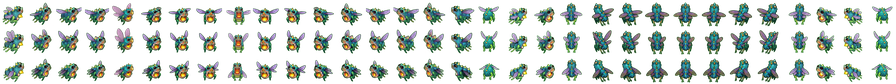
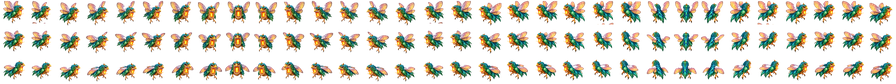
Teratorn: full Codex repaint, all 3 wing-flap frames of 17 headings
Claude-Session: https://claude.ai/code/session_01SMsyPA2gdtNVrQYtH9AZv3

diff --git a/web/tools/gen-teratorn-sprite.py b/web/tools/gen-teratorn-sprite.py
@@ -1,48 +1,42 @@
 """
-Build the repainted Teratorn (C14) sprite sheet from Gemini-restyled frames.
-Art trial, Teratorn only. Usage (from the repo root):
+Build the repainted Teratorn (C14) sprite sheet from Codex-painted frames. Art trial, Teratorn only.
+Usage (from the repo root):
 
-    pip install pillow numpy
+    pip install pillow numpy scipy
     python web/tools/gen-teratorn-sprite.py <source folder>
 
-The source folder holds Gemini's restyles of the original frames, each a grid
-on a flat #00FF00 ground named after the sheet columns it covers, one row per
-column and the three wing-flap frames left to right:
+The source folder holds the grids that Codex painted on a flat #FF00FF ground (web/tools/teratorn-kit/make_batch.py
+builds the inputs and the prompt of each call), named after the sheet columns they cover, top to bottom:
+frames-8-9-10.png ... Each grid has one row per heading and 3 columns, the three wing-flap frames (wings raised, half way,
+swept low), the body identical in the three and only the wings moving.
 
-    frames-8-0-4-24.png     4 rows: columns 8, 0, 4 and 24
-    frames-9-10-11-12.png   ...
+The original sheet is a mirror image of itself: column c flipped left to right is column 16 - c, one pixel over. So only
+columns 8 to 24 (facing down round to facing up through left) are painted; the rest are flipped.
 
-Each grid was made by handing Gemini the original frames blown up 8x, every
-frame in a 256 px cell with the 224 px blow-up 16 px in, and asking it to
-redraw them in place in the revamp's cel style (prompt in
-docs/art/monster-sprites.md). The original pins the pose, so the body stays
-put from frame to frame and only the wings move.
-
-The original sheet is a mirror image of itself: column c flipped left to
-right is column 16 - c, one pixel over. So only columns 8 to 24 (facing down
-round to facing up through left) need painting; the rest are flipped, unless
-the folder has a painting of them too.
-
-Each painted row is fitted to the original row with one scale and offset for
-all three frames (so fitting adds no wobble), keyed, and placed in the
-original layout (32 headings x 3 flap frames, 28x28 cells, anchor 15,14; see
-docs/art/monster-sprites.md):
+Each painted cell is keyed (every magenta pixel becomes clear) and scaled so its silhouette covers about as many pixels as
+the old sprite's does (AREA), the factor smoothed over the 5 nearest headings and blended towards the median so the small
+old front view does not make the new one small. One scale and offset serves a heading's three frames (so the body does not
+wobble from frame to frame): the union of the three frames is centred on the old sprite and its feet stand on the old
+sprite's bottom, and is kept inside the cell. Output, in the original layout (32 headings x 3 flap frames, 28x28 cells):
 
     server/public/assets/monsters/14-repaint.png      896x84
     server/public/assets/monsters/14-repaint@4x.png   3584x336, the same at 4x
 
-The game draws the @4x sheet (REPAINTED_SHEETS in
-web/src/game/attack/monsterSprites.ts).
+The game draws the @4x sheet (REPAINTED_SHEETS in web/src/game/attack/monsterSprites.ts).
 """
 import sys
 from pathlib import Path
 import numpy as np
-from PIL import Image, ImageOps
+from PIL import Image, ImageFilter, ImageOps
+from scipy import ndimage as ndi
 
 CELL = 28
 COLS, ROWS = 32, 3
-UP = 4                       # the repaint's scale
-REF_CELL, REF_INSET, REF_SCALE = 256, 16, 8
+UP = 4                     # the repaint's scale
+GAMMA = 0.9                # lifts the painting a little so it reads at the real size
+MARGIN = 1.0               # keep this many 1x pixels inside the cell
+AREA = 1.2                 # new silhouette area / old silhouette area (1 = the same size as the old sprite)
+BLEND = 0.5                # how far each heading's size is pulled to the median (the old front view is small)
 
 if len(sys.argv) != 2:
     sys.exit(__doc__)
@@ -52,92 +46,121 @@ ASSETS = REPO / "server" / "public" / "assets" / "monsters"
 ORIGINAL = Image.open(ASSETS / "14.v1.png").convert("RGBA")
 
 
-def key(im):
-    """
-    Chroma-key the green ground. The Teratorn's legs are green too, so only
-    a strong green excess (G - max(R, B)) counts as ground: opaque at 105 or
-    less, clear at 235. Part-clear pixels are unmixed from the green.
-    """
-    rgb = np.asarray(im.convert("RGB"), dtype=float)
-    excess = rgb[..., 1] - np.maximum(rgb[..., 0], rgb[..., 2])
-    a = np.clip((235 - excess) / 130, 0, 1)
-    ground = np.array([0, 255, 0], dtype=float)
-    safe = np.maximum(a, 1e-3)[..., None]
-    fg = np.clip((rgb - (1 - a[..., None]) * ground) / safe, 0, 255)
-    fg = np.where((a < 1)[..., None], fg, rgb)
-    return Image.fromarray(np.dstack([fg, a * 255]).astype(np.uint8), "RGBA")
-
-
 def original_cell(col, frame):
-    return ORIGINAL.crop((col * CELL, frame * CELL, (col + 1) * CELL, (frame + 1) * CELL))
+    return np.asarray(ORIGINAL.crop((col * CELL, frame * CELL, (col + 1) * CELL, (frame + 1) * CELL))).astype(int)
 
 
-def place(im, scale, dx, dy, size):
-    """`im` scaled by `scale` about its centre and moved by (dx, dy), on a `size` canvas."""
-    w = max(1, round(im.width * scale))
-    scaled = im.resize((w, w), Image.LANCZOS)
-    pad = w + size
-    out = Image.new("RGBA", (size + 2 * pad, size + 2 * pad))
-    out.alpha_composite(scaled, (pad + round((size - w) / 2 + dx), pad + round((size - w) / 2 + dy)))
-    return out.crop((pad, pad, pad + size, pad + size))
+def bbox(mask):
+    ys, xs = np.where(mask)
+    return xs.min(), ys.min(), xs.max() + 1, ys.max() + 1
 
 
-def fit_row(painted, col):
-    """
-    One scale and offset for a row's three frames that best lays Gemini's
-    silhouettes over the original's, compared at 2x. The original's wings
-    are a faint blur, so only its solid pixels and Gemini's are compared.
-    """
-    n = CELL * 2
-    targets = [np.asarray(original_cell(col, f).resize((n, n), Image.LANCZOS))[..., 3] > 160 for f in range(ROWS)]
-    small = [p.resize((n, n), Image.LANCZOS) for p in painted]
-    best = None
-    for scale in np.arange(0.86, 1.10, 0.02):
-        masks = [np.asarray(place(s, scale, 0, 0, n))[..., 3] > 160 for s in small]
-        for dy in range(-6, 7):
-            for dx in range(-6, 7):
-                err = 0
-                for m, t in zip(masks, targets):
-                    err += np.count_nonzero(np.roll(np.roll(m, dy, 0), dx, 1) ^ t)
-                if best is None or err < best[0]:
-                    best = (err, scale, dx, dy)
-    _, scale, dx, dy = best
-    return scale, dx / 2, dy / 2   # offsets in 1x pixels
+def key(path, rows):
+    """The grid's cells as RGBA cutouts: cells[row][frame]."""
+    rgb = np.asarray(Image.open(path).convert("RGB"), dtype=float)
+    h, w = rgb.shape[:2]
+    r, g, b = rgb[..., 0], rgb[..., 1], rgb[..., 2]
+    mx = np.maximum(r, b)
+    ground = (g < np.minimum(r, b) * 0.62) & (np.abs(r - b) < 0.4 * mx) & (mx > 60)
+    fg = ndi.binary_opening(~ground, iterations=1)
+    cw, ch = w // 3, h // rows
+    keep = np.zeros_like(fg)
+    lab, _ = ndi.label(fg)
+    for ry in range(rows):
+        for cx in range(3):
+            y0, x0 = ry * ch, cx * cw
+            sub = lab[y0:y0 + ch, x0:x0 + cw]
+            ids, cnt = np.unique(sub[sub > 0], return_counts=True)
+            for i, c in zip(ids, cnt):
+                if c > cnt.max() * 0.02:
+                    keep[y0:y0 + ch, x0:x0 + cw] |= sub == i
+    keep &= ~((r > 190) & (b > 150) & (g < 90) & (np.abs(r - b) < 70))   # stray ground flecks
+    keep = ndi.binary_erosion(keep, iterations=1)
+    alpha = np.asarray(Image.fromarray((keep * 255).astype("uint8")).filter(ImageFilter.GaussianBlur(1.0)))
+    cut = Image.fromarray(np.dstack([rgb, alpha]).astype("uint8"), "RGBA")
+    return [[cut.crop((cx * cw, ry * ch, (cx + 1) * cw, (ry + 1) * ch)) for cx in range(3)] for ry in range(rows)]
+
+
+def resize_premultiplied(im, size):
+    """LANCZOS resize with the colour weighted by alpha, so the magenta ground leaves no fringe."""
+    a = np.asarray(im).astype("float32")
+    a[..., :3] *= a[..., 3:] / 255
+    chans = [np.asarray(Image.fromarray(a[..., i], "F").resize(size, Image.LANCZOS)) for i in range(4)]
+    o = np.dstack(chans)
+    al = np.clip(o[..., 3:], 0, 255)
+    rgb = np.where(al > 0, o[..., :3] / np.maximum(al, 1e-3) * 255, 0)
+    return Image.fromarray(np.dstack([np.clip(rgb, 0, 255), al]).astype("uint8"), "RGBA")
+
+
+def area(im):
+    return float((np.asarray(im)[..., 3] > 200).sum())
 
 
 painted = {}
-for path in sorted(SOURCE.glob("frames-*.png")):
+for path in sorted(SOURCE.glob("frames-*.png"), key=lambda p: [int(c) for c in p.stem.split("-")[1:]]):
     cols = [int(c) for c in path.stem.split("-")[1:]]
-    grid = key(Image.open(path))
-    s = grid.width / (3 * REF_CELL)
-    for r, col in enumerate(cols):
-        cells = []
-        for f in range(ROWS):
-            x0 = (f * REF_CELL + REF_INSET) * s
-            y0 = (r * REF_CELL + REF_INSET) * s
-            span = CELL * REF_SCALE * s
-            cells.append(grid.crop((round(x0), round(y0), round(x0 + span), round(y0 + span))).resize((CELL * UP, CELL * UP), Image.LANCZOS))
-        scale, dx, dy = fit_row(cells, col)
-        print(f"column {col:2}: scale {scale:.2f}, offset {dx:+.1f},{dy:+.1f} px", file=sys.stderr)
-        painted[col] = [place(c, scale, dx * UP, dy * UP, CELL * UP) for c in cells]
+    for col, cells in zip(cols, key(path, len(cols))):
+        painted[col] = cells          # a heading in two grids: the later grid wins
+if sorted(painted) != list(range(8, 25)):
+    sys.exit(f"painted columns {sorted(painted)}, need 8 to 24")
 
-missing = []
+# old silhouette (any visible pixel, faint wings included) of the middle frame, per heading
+old = {c: float((original_cell(c, 1)[..., 3] > 40).sum()) for c in range(COLS)}
+med = float(np.median([old[c] for c in painted]))
+target = {c: AREA * ((1 - BLEND) * old[c] + BLEND * med) for c in painted}
+size = {c: np.sqrt(target[c]) for c in painted}           # wanted size in 1x pixels (square root of the area)
+fit, scale, cap = {}, {}, {}
+for c, cells in painted.items():
+    near = [size[min(24, max(8, c + d))] for d in range(-2, 3)]
+    k = float(np.mean(near)) / np.sqrt(area(cells[1]))     # 1x pixels per painted pixel
+    boxes = [bbox(np.asarray(f)[..., 3] > 40) for f in cells]
+    ux0, uy0, ux1, uy1 = min(b[0] for b in boxes), min(b[1] for b in boxes), max(b[2] for b in boxes), max(b[3] for b in boxes)
+    om = original_cell(c, 1)[..., 3] > 235
+    ox0, oy0, ox1, oy1 = bbox(om if om.any() else original_cell(c, 1)[..., 3] > 40)
+    cx, bottom = (ox0 + ox1) / 2, min(oy1 + 0.5, CELL - MARGIN)
+    mid = (ux0 + ux1) / 2
+    left, right = (mid - ux0) * k, (ux1 - mid) * k
+    limit = min((cx - MARGIN) / left, (CELL - MARGIN - cx) / right, (bottom - MARGIN) / ((uy1 - uy0) * k))
+    scale[c] = k * min(1.0, limit)
+    cap[c] = k * limit
+    fit[c] = (cx, bottom, mid, uy1)
+    print(f"column {c:2}: want {k:.4f} limit {limit:.3f} scale {scale[c]:.4f}" + (" (cut to fit the cell)" if limit < 1 else ""), file=sys.stderr)
+
+# smooth the cut sizes too (a heading cut harder than its neighbours would pulse), but never past the cell
+cut = {c: scale[c] * np.sqrt(area(painted[c][1])) for c in scale}
+scale = {c: min(cap[c], float(np.mean([cut[min(24, max(8, c + d))] for d in range(-2, 3)])) / np.sqrt(area(painted[c][1]))) for c in scale}
+
+cw = CELL * UP
+cells_out = {}
+for c, cells in painted.items():
+    cx, bottom, mid, fy1 = fit[c]
+    s = scale[c] * UP
+    frames = []
+    for f in cells:
+        mon = resize_premultiplied(f, (max(1, round(f.width * s)), max(1, round(f.height * s))))
+        px = np.asarray(mon).astype(float)
+        px[..., :3] = 255 * (px[..., :3] / 255) ** GAMMA
+        mon = Image.fromarray(px.astype("uint8"), "RGBA")
+        ox, oy = round(cx * UP - mid * s), round(bottom * UP - fy1 * s)
+        layer = Image.new("RGBA", (cw + 2 * mon.width, cw + 2 * mon.height))
+        layer.alpha_composite(mon, (mon.width + ox, mon.height + oy))
+        frames.append(layer.crop((mon.width, mon.height, mon.width + cw, mon.height + cw)))
+    cells_out[c] = frames
+
 for col in range(COLS):
-    if col in painted:
-        continue
-    mirror = (16 - col) % COLS
-    if mirror not in painted:
-        missing.append(col)
+    if col in cells_out:
         continue
     # flipped, then one 1x pixel left, as the original's own mirror pairs sit
-    painted[col] = [place(ImageOps.mirror(c), 1.0, -UP, 0, CELL * UP) for c in painted[mirror]]
-if missing:
-    sys.exit(f"no painting of columns {missing} or their mirror images")
+    cells_out[col] = []
+    for m in cells_out[(16 - col) % COLS]:
+        shifted = Image.new("RGBA", m.size)
+        shifted.paste(ImageOps.mirror(m), (-UP, 0))
+        cells_out[col].append(shifted)
 
-sheet = Image.new("RGBA", (COLS * CELL * UP, ROWS * CELL * UP))
-for col, cells in painted.items():
-    for f, c in enumerate(cells):
-        sheet.paste(c, (col * CELL * UP, f * CELL * UP))
+sheet = Image.new("RGBA", (COLS * cw, ROWS * cw))
+for col, frames in cells_out.items():
+    for f, im in enumerate(frames):
+        sheet.paste(im, (col * cw, f * cw))
 sheet.save(ASSETS / "14-repaint@4x.png", optimize=True)
 sheet.resize(ORIGINAL.size, Image.LANCZOS).save(ASSETS / "14-repaint.png", optimize=True)
 print("wrote 14-repaint@4x.png and 14-repaint.png", file=sys.stderr)

diff --git a/web/tools/teratorn-kit/make_batch.py b/web/tools/teratorn-kit/make_batch.py
@@ -1,0 +1,96 @@
+"""
+make_batch.py <batch dir> <c1> [<c2> <c3>] [--prev <prev frames-new.png> <its row of the last heading>] : set up one Codex call for up to
+three Teratorn headings, each painted in the 3 wing-flap poses (a 3 x N grid: columns = wing up / middle / down,
+one row per heading). Writes frames.png (the old frames blown up 8x on grey), style.png, portrait.png, prompt.txt.
+Then, from the batch dir:
+    codex exec --skip-git-repo-check --sandbox workspace-write -i frames.png -i style.png -i portrait.png - < prompt.txt
+Headings are sheet columns of 14.v1.png (32 headings of 11.25 degrees, 0 = east, clockwise; 3 flap rows; 28x28 cells).
+Set NOTE in the environment to append a line to the prompt.
+"""
+import os
+import shutil
+import sys
+from pathlib import Path
+import numpy as np
+from PIL import Image
+
+REPO = Path(__file__).resolve().parents[3]
+SHEET = REPO / "server" / "public" / "assets" / "monsters" / "14.v1.png"
+KIT = Path("D:/Coding/BYMR/art-trials/teratorn")
+CELL = 28
+args = sys.argv[1:]
+out = Path(args[0])
+prev = None
+if "--prev" in args:
+    i = args.index("--prev")
+    prev = (args[i + 1], int(args[i + 2]))
+    args = args[:i]
+cols = [int(c) for c in args[1:]]
+out.mkdir(parents=True, exist_ok=True)
+n = len(cols)
+
+sheet = Image.open(SHEET).convert("RGBA")
+grid = Image.new("RGB", (768, 256 * n), (128, 128, 128))
+for r, c in enumerate(cols):
+    for f in range(3):
+        cell = sheet.crop((c * CELL, f * CELL, (c + 1) * CELL, (f + 1) * CELL)).resize((224, 224), Image.NEAREST)
+        bg = Image.new("RGBA", cell.size, (128, 128, 128, 255))
+        bg.alpha_composite(cell)
+        grid.paste(bg.convert("RGB"), (f * 256 + 16, r * 256 + 16))
+grid.save(out / "frames.png")
+shutil.copy(KIT / "codex" / "portrait.png", out / "portrait.png")
+
+
+def tight(im):
+    a = np.asarray(im.convert("RGB")).astype(int)
+    bg = (a[..., 0] > 200) & (a[..., 1] < 90) & (a[..., 2] > 200)
+    ys, xs = np.where(~bg)
+    return im.crop((xs.min(), ys.min(), xs.max() + 1, ys.max() + 1))
+
+
+def quadrant(path, q):
+    im = Image.open(path).convert("RGB")
+    w, h = im.size
+    return tight(im.crop(((q % 2) * w // 2, (q // 2) * h // 2, (q % 2 + 1) * w // 2, (q // 2 + 1) * h // 2)))
+
+
+def row_middle(path, r, rows):
+    im = Image.open(path).convert("RGB")
+    w, h = im.size
+    return tight(im.crop((w // 3, r * h // rows, 2 * w // 3, (r + 1) * h // rows)))
+
+
+# approved single views (middle wing pose): east 0 (top-left), south 90 (top-right), west 180 (bottom-left), north 270
+APPROVED = KIT / "codex" / "frames-new.png"
+lo = int(cols[0] * 11.25) // 90 % 4
+names = ["east (heading 0)", "south, facing the viewer (90)", "west (180)", "north, back to the viewer (270)"]
+views, used = [], []
+if prev:
+    views.append(row_middle(prev[0], prev[1], 3))
+    used.append(f"the previous batch's last heading ({(cols[0] - 1) * 11.25:g} degrees, middle wing pose, already painted and approved)")
+for q in (lo, (lo + 1) % 4):
+    views.append(quadrant(APPROVED, q))
+    used.append(names[q])
+H = max(v.height for v in views)
+strip = Image.new("RGB", (sum(v.width for v in views) + 40 * (len(views) + 1), H + 80), (255, 0, 255))
+x = 40
+for v in views:
+    strip.paste(v, (x, 40 + H - v.height))
+    x += v.width + 40
+strip.save(out / "style.png")
+
+hs = ", ".join(f"row {i + 1}: {c * 11.25:g} degrees" for i, c in enumerate(cols))
+prompt = f"""Use your image generation tool (one call) to create a new image and save it as frames-new.png in the current folder. Do not write code and do not copy or composite pixels from the inputs.
+
+Input 1, frames.png: a grid of low-resolution isometric game sprites of the Teratorn, blown up 8x, {n} rows of 3 columns (768 px wide, 256 px per row). OLD design: ignore its colours and shapes. Use it ONLY for facing, position, overall size and wing position. Each ROW is one heading of the same monster, {hs}. Heading is measured on the ground from the screen's right (east) turning clockwise as seen from above: 0 = facing right, 90 = facing toward the viewer (down), 180 = facing left, 270 = facing away (up); the camera is a 3/4 isometric view. The 3 COLUMNS are the 3 frames of its wing-flap animation: left column wings raised high, middle column wings half way, right column wings swept low. Match each cell's facing exactly (which way the front points).
+
+Input 2, style.png: a row of single APPROVED views of this monster on magenta, left to right: {"; ".join(used)}. This row is NOT the layout of the output. Copy its exact design, colours, painting style and proportions for every cell: a feathered green and teal bird body, a golden hooked beak and a WIDE toothy open maw full of fire, two big translucent veined wings, and orange bird legs with claws. ALL of these signature parts (feathered body, fiery maw, veined wings, orange legs) must be visible in every cell (from behind show the feathered back with no face, wings and legs still visible). Same creature in every cell, rotated to the cell's own heading from frames.png (for in-between headings, turn it smoothly between the approved views; never mirror to face the wrong way).
+
+Input 3, portrait.png: the official concept painting, for design and colour reference only.
+
+Output: ONE image with the same grid layout and canvas proportions as frames.png (768 x {256 * n}, or a 2x multiple), each monster at the same position, overall size, facing and wing position as the matching cell of frames.png, redesigned as in style.png. Within a ROW the body, head, fire and legs are IDENTICAL in the 3 cells (same pose, same position, same size) and ONLY THE WINGS MOVE (raised, half way, swept low), so the flap animates when the 3 cells play in turn. The wings must be big and clearly visible. Make each monster FILL its cell: about as big as the old sprite and never smaller; the front-facing and back-facing rows must be as big as the side-facing ones.
+Style: hand-painted digital illustration like the portrait, soft shading, rich texture, glossy highlights, NO thick cartoon outline, NOT cute, no cel shading, no pixel art.
+Background everywhere: flat pure magenta #FF00FF. No shadows, no ground, no grid lines, no text, no labels."""
+prompt += chr(10) + os.environ.get("NOTE", "")
+(out / "prompt.txt").write_text(prompt, encoding="utf-8")
+print("ready", out, cols)
